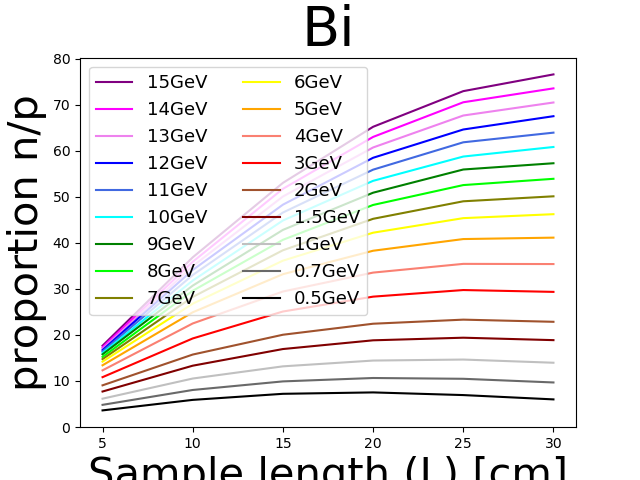
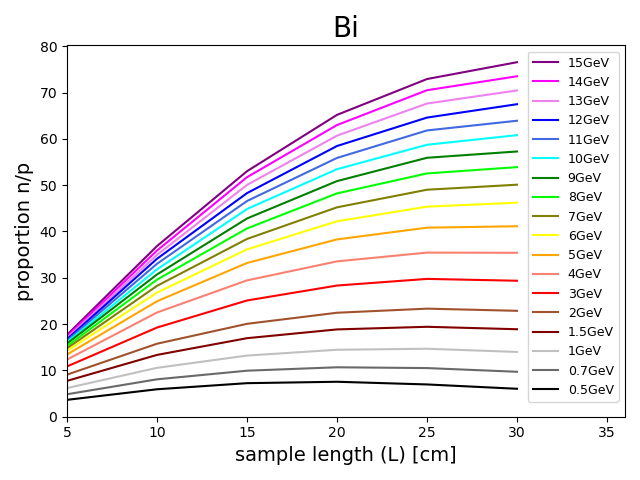
Brand new plots

diff --git a/data/crossSections.py b/data/crossSections.py
@@ -57,9 +57,9 @@ for en in counts.keys():
 fig = plt.figure()
 ax = fig.add_subplot()
 ax.plot(counts.keys(), crossSections)
-ax.set_title("σ\u209A in p" + element + " collision", size=40)
-ax.set_xlabel("Energy (E\u2096) [GeV]", size=20)
-ax.set_ylabel("Cross section (σ\u209A) [b]", size=20)
+ax.set_title("σ\u209A in p" + element + " collision", size=30)
+ax.set_xlabel("Energy (E\u2096) [GeV]", size=18)
+ax.set_ylabel("Cross section (σ\u209A) [b]", size=18)
 # ax.set_xscale("log")
 ax.minorticks_on()
 fig.savefig("plots/crossSection" + element + ".png")

diff --git a/data/plot.py b/data/plot.py
@@ -62,9 +62,12 @@ def plot(data, energy):
 
 for en in reversed(list(counts.keys())):
     plot(counts[en], en)
-plt.legend(loc="upper left", prop={"size": 13}, ncol=2)
-plt.xlabel("Sample length (L) [cm]", size=30)
-plt.ylabel("proportion n/p", size=30)
-plt.title(element, size=40)
+
+plt.legend(prop={"size": 9})
+plt.xlabel("sample length (L) [cm]", size=14)
+plt.ylabel("proportion n/p", size=14)
+plt.title(element, size=20)
+plt.xlim([5, 36])
+plt.tight_layout()
 plt.savefig("plots/np(L)" + element + ".png")
 plt.show()
